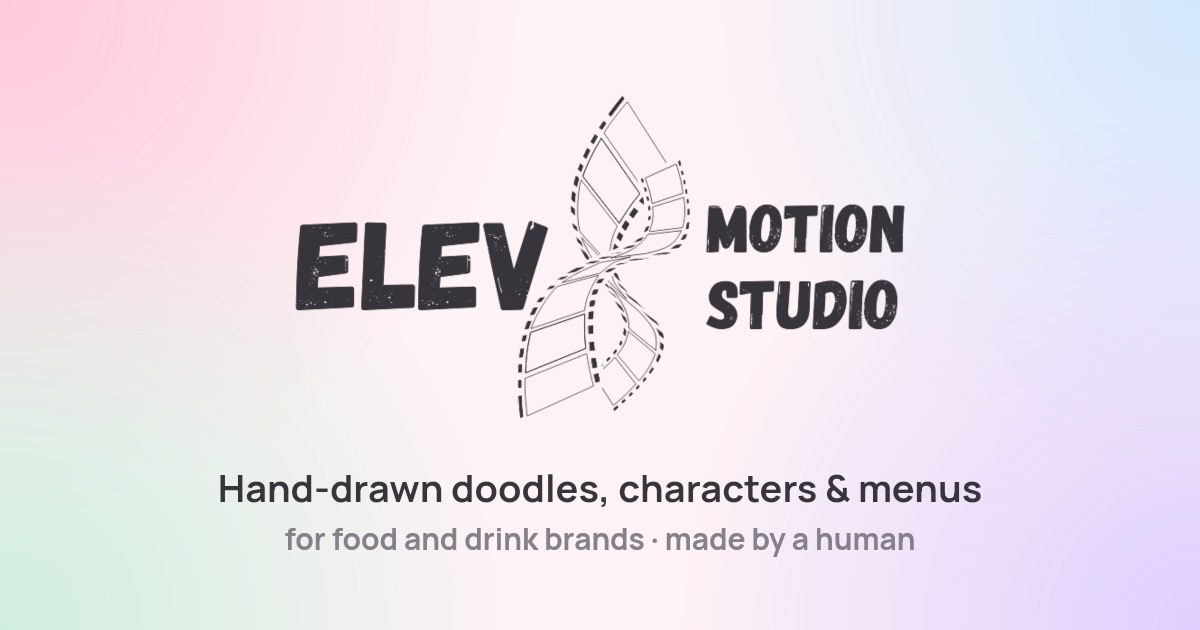
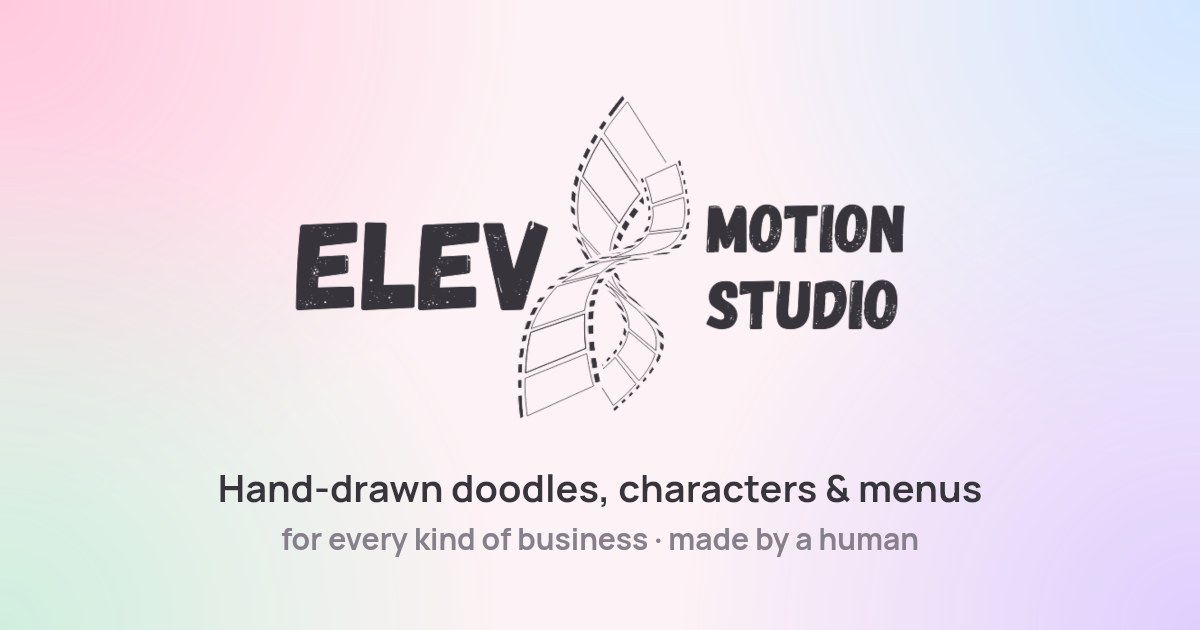
Pick & Mix package (any 5 designs, £800) and wording for every kind of business

Changed region(s): [[0.2158, 0.8444, 0.7708, 0.8746]]

diff --git a/index.html b/index.html
@@ -3,11 +3,11 @@
 <head>
 <meta charset="utf-8">
 <meta name="viewport" content="width=device-width, initial-scale=1, viewport-fit=cover">
-<title>Elev8 Motion Studio · Hand-drawn doodles & characters for food and drink brands</title>
-<meta name="description" content="Elev8 Motion Studio turns your products into hand-drawn doodles, characters and seasonal menus that make people hungry before they've read a word. All delivered digitally. Founded by Precious Muiambo.">
+<title>Elev8 Motion Studio · Hand-drawn doodles & characters for every kind of business</title>
+<meta name="description" content="Elev8 Motion Studio turns your products into hand-drawn doodles, characters, menus and animated logos for every kind of business. All delivered digitally. Founded by Precious Muiambo.">
 <meta property="og:type" content="website">
 <meta property="og:title" content="Elev8 Motion Studio">
-<meta property="og:description" content="Hand-drawn doodles, characters and menus that make people hungry before they've read a word.">
+<meta property="og:description" content="Hand-drawn doodles, characters and menus that make people stop scrolling, for every kind of business.">
 <meta property="og:url" content="https://retiosfernoherself-nic.github.io/elev8motionstudio/">
 <meta property="og:image" content="https://retiosfernoherself-nic.github.io/elev8motionstudio/media/share.jpg">
 <meta name="twitter:card" content="summary_large_image">
@@ -178,7 +178,7 @@ section { padding-block: 60px; border-top: 1px solid var(--line); }
 .item p { color: var(--grey); max-width: 44em; }
 
 /* Packages */
-.packages { display: grid; grid-template-columns: repeat(2, minmax(0, 1fr)); gap: 24px; }
+.packages { display: grid; grid-template-columns: repeat(3, minmax(0, 1fr)); gap: 24px; }
 .pack { position: relative; display: grid; gap: 22px; align-content: start; padding: clamp(22px, 3.5vw, 36px); border-radius: 22px;
   background: var(--surface); border: 1px solid var(--line); box-shadow: var(--shadow); overflow: hidden; }
 .pack::before { content: ""; position: absolute; inset: 0 0 auto 0; height: 6px;
@@ -198,6 +198,13 @@ section { padding-block: 60px; border-top: 1px solid var(--line); }
 .free { display: inline-block; margin-left: 8px; padding: 2px 10px; border-radius: 999px; vertical-align: 2px; font: 700 11.5px var(--f-body); letter-spacing: .08em; text-transform: uppercase; color: #37343b;
   background: linear-gradient(135deg, #ffd3e4, #fff2c2 45%, #cdeedd 75%, #dccdff); box-shadow: 0 4px 10px rgba(185, 163, 239, .3); }
 .quote strong { color: var(--rose); }
+.pack.mixed::before { background: linear-gradient(90deg, #cdeedd, #fff2c2 25%, #ffc6dc 50%, #dccdff 75%, #cfe6ff); }
+.pick-note { font-weight: 600; color: var(--grey); font-size: 15px; }
+.pick-note strong { color: var(--ink); }
+.incl.pick .qty { font-size: 20px; }
+.incl .new { display: inline-block; margin-left: 8px; padding: 2px 9px; border-radius: 999px; vertical-align: 2px; font: 700 11px var(--f-body); letter-spacing: .08em; text-transform: uppercase; color: #37343b;
+  background: linear-gradient(135deg, #ffd3e4, #fff2c2 45%, #cdeedd 75%, #dccdff); }
+@media (max-width: 1180px) and (min-width: 961px) { .packages { grid-template-columns: repeat(2, minmax(0, 1fr)); } .pack.mixed { grid-column: 1 / -1; } }
 
 /* Enquiry form: contact details, then the package (and season), then what they love */
 .enquire { display: grid; grid-template-columns: minmax(0, 1fr) minmax(0, 1.6fr); gap: clamp(24px, 4vw, 56px); align-items: start; }
@@ -239,7 +246,20 @@ fieldset.field { border: 0; margin: 0; padding: 0; }
 .chip span { display: inline-block; padding: 8px 14px; border-radius: 999px; border: 1.5px solid var(--line); background: var(--paper); font-weight: 600; font-size: 14px; cursor: pointer; }
 .chip input:checked + span { background: linear-gradient(135deg, #ffd3e4, #fff2c2 45%, #cdeedd 75%, #dccdff); border-color: transparent; color: #37343b; }
 .chip input:focus-visible + span { outline: 3px solid var(--lilac); outline-offset: 2px; }
-.season-field[hidden] { display: none; }
+.season-field[hidden], .mix-field[hidden] { display: none; }
+.mix { display: grid; gap: 8px; }
+.mix-row { display: grid; grid-template-columns: minmax(0, 1fr) auto; align-items: center; gap: 12px; padding: 10px 12px 10px 16px; border-radius: 14px; border: 1.5px solid var(--line); background: var(--paper); }
+.mix-row.on { border-color: var(--lilac); background: var(--surface); }
+.field.bad .mix-row { border-color: var(--rose); }
+.mix-row b { display: block; font-size: 14.5px; line-height: 1.3; }
+.mix-row small { display: block; margin-top: 3px; font-size: 11.5px; line-height: 1.6; letter-spacing: .01em; color: var(--grey); }
+.step { display: flex; align-items: center; gap: 6px; }
+.step button { width: 36px; height: 36px; border-radius: 999px; border: 1.5px solid var(--line); background: var(--surface); font: 700 18px/1 var(--f-body); color: var(--ink); cursor: pointer; }
+.step button:hover:not(:disabled) { border-color: var(--lilac); }
+.step button:disabled { opacity: .35; cursor: default; }
+.step output { min-width: 22px; text-align: center; font-family: var(--f-display); font-size: 22px; line-height: 1; }
+.mix-total { font-family: var(--f-mono); font-size: 13px; color: var(--grey); }
+.mix-total strong { color: var(--rose); }
 .form-foot { display: flex; flex-wrap: wrap; align-items: center; gap: 12px 18px; margin-top: 22px; }
 .form-foot .mono { max-width: 32em; }
 .sent { display: grid; gap: 14px; }
@@ -303,10 +323,10 @@ footer { padding-block: 24px 40px; border-top: 1px solid var(--line); }
 <div class="wrap">
   <header class="hero">
     <div>
-      <p class="kicker">Hand-drawn doodles &amp; characters for food and drink brands</p>
+      <p class="kicker">Hand-drawn doodles &amp; characters for every kind of business</p>
       <h1>Elev8<br><span class="accent">Motion Studio</span></h1>
-      <p class="lede">Hand-drawn doodles and characters that make people hungry before they've read a word.</p>
-      <p class="sub">We turn your products into playful artwork for restaurants, cafés, bakeries and sweet shops: a full page of your best-sellers as a doodle, characters drawn from your products, and seasonal doodles, menus and characters for every big date. All delivered digitally.</p>
+      <p class="lede">Hand-drawn doodles and characters that make people stop scrolling before they've read a word.</p>
+      <p class="sub">Whatever you sell, we turn it into playful artwork: cafés and bakeries, salons and boutiques, florists, makers and more. A full page of your best-sellers as a doodle, characters drawn from your products, themed menus, animated logos and seasonal designs for every big date. All delivered digitally.</p>
       <div class="cta">
         <a class="btn primary" href="#enquire">Book a consult</a>
         <a class="btn" href="#packages">See our packages</a>
@@ -349,7 +369,7 @@ footer { padding-block: 24px 40px; border-top: 1px solid var(--line); }
   <section id="packages">
     <div class="head">
       <h2>Packages</h2>
-      <p>Two ways to get your brand moving. Every piece is drawn for your business from scratch and delivered digitally, and we agree the details on a quick consult first.</p>
+      <p>Three ways to get your brand moving. Every piece is drawn for your business from scratch and delivered digitally, and we agree the details on a quick consult first.</p>
     </div>
     <div class="packages">
       <article class="pack">
@@ -381,13 +401,31 @@ footer { padding-block: 24px 40px; border-top: 1px solid var(--line); }
         <p class="quote">Start with a quick <strong>consult call</strong>, then a 50% deposit secures your booking.</p>
         <a class="btn primary choose" href="#enquire" data-choose="Seasonal Package">Choose this package</a>
       </article>
+      <article class="pack mixed">
+        <div class="pack-top">
+          <p class="kicker">Any 5 designs, mixed however you like</p>
+          <h3>Pick &amp; Mix Package</h3>
+          <p class="price"><span class="cur">£</span>800</p>
+        </div>
+        <p class="pick-note">Choose <strong>5 designs</strong> from these. Pick one of each, or 5 of the same: five doodles, five stickers, it's up to you.</p>
+        <ul class="incl pick">
+          <li><span class="qty">✦</span>Page doodle of your products</li>
+          <li><span class="qty">✦</span>Product character sticker</li>
+          <li><span class="qty">✦</span>Character-themed menu</li>
+          <li><span class="qty">✦</span>Animated logo</li>
+          <li><span class="qty">✦</span><span>Doodle brand pattern<span class="new">New</span></span></li>
+        </ul>
+        <p class="digital">All designs are digital</p>
+        <p class="quote">Start with a quick <strong>consult call</strong>, then a 50% deposit secures your booking.</p>
+        <a class="btn primary choose" href="#enquire" data-choose="Pick &amp; Mix Package">Choose this package</a>
+      </article>
     </div>
   </section>
 
   <section id="how">
     <div class="head"><h2>How we work</h2></div>
     <div class="rules">
-      <div class="rule"><span class="num">1</span><h3>A quick chat</h3><p>Your menu, your best sellers, the deals you want to push and the look you like.</p></div>
+      <div class="rule"><span class="num">1</span><h3>A quick chat</h3><p>Your products or menu, your best sellers, the deals you want to push and the look you like.</p></div>
       <div class="rule"><span class="num">2</span><h3>Your brand, set up once</h3><p>Your colours, fonts and logo go into templates, so every post looks like it came from the same place.</p></div>
       <div class="rule"><span class="num">3</span><h3>Pay your deposit</h3><p>A 50% deposit secures your booking and we start designing. The other 50% is due after you have received your designs.</p></div>
       <div class="rule"><span class="num">4</span><h3>Receive your designs</h3><p>Your finished designs, delivered digitally and sized for your feed, stories and menu screens.</p></div>
@@ -417,7 +455,7 @@ footer { padding-block: 24px 40px; border-top: 1px solid var(--line); }
             <div class="field"><label for="f-email">Email</label><input id="f-email" name="email" type="email" autocomplete="email" required><span class="err">Please add a valid email.</span></div>
             <div class="field"><label for="f-phone">Phone / WhatsApp</label><input id="f-phone" name="phone" type="tel" autocomplete="tel" required><span class="err">Please add a phone or WhatsApp number.</span></div>
             <div class="field"><label for="f-type">Type of business</label>
-              <select id="f-type" name="type" required><option value="">Choose one</option><option>Restaurant</option><option>Café or coffee shop</option><option>Bakery or cake shop</option><option>Sweets, desserts or ice cream</option><option>Fast food or takeaway</option><option>Juice, smoothie or bubble tea</option><option>Handmade products</option><option>Other</option></select>
+              <select id="f-type" name="type" required><option value="">Choose one</option><option>Restaurant, takeaway or fast food</option><option>Café, bakery or sweet shop</option><option>Hair, beauty or nails</option><option>Fashion, bags or accessories</option><option>Handmade products, candles or crafts</option><option>Shop or boutique</option><option>Flowers, gifts or events</option><option>Health, fitness or wellness</option><option>Services</option><option>Other</option></select>
               <span class="err">Please choose one.</span></div>
             <div class="field"><label for="f-ig">Instagram or website <span class="opt">(optional)</span></label><input id="f-ig" name="instagram" placeholder="@yourbusiness or yourbusiness.co.uk"></div>
 
@@ -425,12 +463,17 @@ footer { padding-block: 24px 40px; border-top: 1px solid var(--line); }
               <div class="choices">
                 <label class="choice"><input type="radio" name="package" value="Business Package"><b>Business</b><span>A page of your products as a doodle, plus 2 characters drawn from your products</span></label>
                 <label class="choice"><input type="radio" name="package" value="Seasonal Package"><b>Seasonal</b><span>A seasonal full&#8209;page doodle, a seasonal themed menu and 6 seasonal characters</span></label>
+                <label class="choice"><input type="radio" name="package" value="Pick &amp; Mix Package"><b>Pick &amp; Mix</b><span>Any 5 designs, mixed however you like</span></label>
                 <label class="choice"><input type="radio" name="package" value="Not sure yet"><b>Not sure yet</b><span>We'll help you choose on the call</span></label>
               </div>
               <span class="err">Please choose a package, or "Not sure yet".</span></fieldset>
             <div class="field full season-field" id="season-field" hidden><label for="f-season">Which season is your campaign for?</label>
               <select id="f-season" name="season"><option value="">Choose a season</option><option>Bonfire Night (5 November)</option><option>Diwali (November)</option><option>Black Friday &amp; Cyber Monday</option><option>Christmas</option><option>New Year's Eve &amp; New Year's Day</option><option>Dry January &amp; Veganuary</option><option>Burns Night (25 January)</option><option>Lunar New Year</option><option>Ramadan &amp; Eid al-Fitr</option><option>Pancake Day</option><option>Valentine's Day</option><option>St David's Day (1 March)</option><option>Mother's Day</option><option>St Patrick's Day (17 March)</option><option>Easter</option><option>May bank holidays</option><option>Father's Day</option><option>Summer &amp; school holidays</option><option>Back to school</option><option>Halloween</option><option>Not sure yet, help me choose</option></select>
               <span class="err">Please choose a season.</span></div>
+            <fieldset class="field full mix-field" id="mix-field" hidden><legend>Pick your 5 designs <span class="opt">(mix them any way you like)</span></legend>
+              <div class="mix" id="mix"></div>
+              <p class="mix-total" id="mix-total" aria-live="polite"></p>
+              <span class="err">Please pick at least one design. You can finish choosing on the call.</span></fieldset>
 
             <fieldset class="field full"><legend>What do you love? <span class="opt">(pick any)</span></legend>
               <div class="chips">
@@ -440,7 +483,7 @@ footer { padding-block: 24px 40px; border-top: 1px solid var(--line); }
                 <label class="chip"><input type="checkbox" name="loves" value="Fun &amp; playful"><span>Fun &amp; playful</span></label>
                 <label class="chip"><input type="checkbox" name="loves" value="Clean &amp; minimal"><span>Clean &amp; minimal</span></label>
                 <label class="chip"><input type="checkbox" name="loves" value="Elegant"><span>Elegant</span></label>
-                <label class="chip"><input type="checkbox" name="loves" value="Mouth-watering close-ups"><span>Mouth-watering close-ups</span></label>
+                <label class="chip"><input type="checkbox" name="loves" value="Product close-ups"><span>Product close-ups</span></label>
                 <label class="chip"><input type="checkbox" name="loves" value="Hand-drawn"><span>Hand-drawn</span></label>
               </div></fieldset>
             <div class="field full"><label for="f-about">Tell us about your business <span class="opt">(optional)</span></label>
@@ -521,12 +564,46 @@ footer { padding-block: 24px 40px; border-top: 1px solid var(--line); }
 // (not activated yet, opened from a computer folder, or offline), the finished enquiry is handed to the visitor's own
 // email or WhatsApp app instead, already written and addressed.
 var CONTACT = { email: "elev8motionstudio@gmail.com", whatsapp: "27740208902" };   // whatsapp: international number, digits only, e.g. 447700900123
+// The designs a Pick & Mix client chooses from (up to MIX_MAX in total, any mix).
+var MIX_MAX = 5, MIX = [
+  ["Page doodle", "A full page of your products as one doodle"],
+  ["Product character sticker", "One of your products drawn as a character sticker"],
+  ["Character-themed menu", "Your menu or price list, decorated with your characters"],
+  ["Animated logo", "Your logo brought to life in a short animation"],
+  ["Doodle brand pattern", "Your products drawn into a repeat pattern for packaging, bags, cups and backgrounds"]
+];
 (function () {
   var form = document.getElementById("enquiry"), sent = document.getElementById("sent");
   if (!form) return;
   var seasonField = document.getElementById("season-field"), season = document.getElementById("f-season"), pkgField = document.getElementById("pkg-field");
   function pkg() { var c = form.querySelector("input[name=package]:checked"); return c ? c.value : ""; }
-  function syncSeason() { var on = pkg() === "Seasonal Package"; seasonField.hidden = !on; season.required = on; if (!on) seasonField.classList.remove("bad"); }
+  function syncSeason() { var on = pkg() === "Seasonal Package"; seasonField.hidden = !on; season.required = on; if (!on) seasonField.classList.remove("bad"); syncMix(); }
+  // Pick & Mix: a − / + counter per design, never more than MIX_MAX in total
+  var mixField = document.getElementById("mix-field"), mixBox = document.getElementById("mix"), counts = MIX.map(function () { return 0; });
+  mixBox.innerHTML = MIX.map(function (m, i) {
+    return '<div class="mix-row"><span><b>' + m[0] + '</b><small>' + m[1] + '</small></span><div class="step">' +
+      '<button type="button" data-i="' + i + '" data-d="-1" aria-label="One less: ' + m[0] + '">−</button><output>0</output>' +
+      '<button type="button" data-i="' + i + '" data-d="1" aria-label="One more: ' + m[0] + '">+</button></div></div>';
+  }).join("");
+  function total() { return counts.reduce(function (a, b) { return a + b; }, 0); }
+  function picks() { return MIX.map(function (m, i) { return counts[i] ? counts[i] + " × " + m[0] : ""; }).filter(Boolean).join(", "); }
+  function drawMix() {
+    var t = total();
+    mixBox.querySelectorAll(".mix-row").forEach(function (row, i) {
+      row.classList.toggle("on", counts[i] > 0); row.querySelector("output").textContent = counts[i];
+      row.querySelector('[data-d="-1"]').disabled = counts[i] === 0; row.querySelector('[data-d="1"]').disabled = t >= MIX_MAX;
+    });
+    document.getElementById("mix-total").innerHTML = "<strong>" + t + " of " + MIX_MAX + "</strong> picked" +
+      (t >= MIX_MAX ? ". That's the full package." : t ? ". Pick " + (MIX_MAX - t) + " more, or finish choosing on the call." : "");
+  }
+  mixBox.addEventListener("click", function (e) {
+    var b = e.target.closest("button[data-i]"); if (!b) return;
+    var i = +b.dataset.i, d = +b.dataset.d;
+    if (d > 0 && total() >= MIX_MAX) return;
+    counts[i] = Math.max(0, counts[i] + d); if (total()) mixField.classList.remove("bad"); drawMix();
+  });
+  function syncMix() { var on = pkg() === "Pick & Mix Package"; mixField.hidden = !on; if (!on) mixField.classList.remove("bad"); }
+  drawMix();
   function valid(el) {
     if (!el.required) return true;
     var v = (el.value || "").trim();
@@ -555,6 +632,7 @@ var CONTACT = { email: "elev8motionstudio@gmail.com", whatsapp: "27740208902" };
       "Phone / WhatsApp: " + get("phone"), BR,
       "Package: " + pkg(),
       pkg() === "Seasonal Package" && "Season: " + get("season"),
+      pkg() === "Pick & Mix Package" && "My designs (" + total() + " of " + MIX_MAX + "): " + picks(),
       loves.length && "What I love: " + loves.join(", "),
       get("about") && "About my business: " + get("about"), BR,
       "Best way to reach me: " + get("reach"),
@@ -569,6 +647,8 @@ var CONTACT = { email: "elev8motionstudio@gmail.com", whatsapp: "27740208902" };
     });
     var hasPkg = !!pkg(); pkgField.classList.toggle("bad", !hasPkg);
     if (!hasPkg && !first) first = pkgField.querySelector("input");
+    var mixBad = pkg() === "Pick & Mix Package" && !total(); mixField.classList.toggle("bad", mixBad);
+    if (mixBad && !first) first = mixBox.querySelector('[data-d="1"]');
     if (first) { first.focus(); return; }
     var d = new FormData(form), text = message(d), subject = "Consult request: " + String(d.get("business")).trim() + " (" + pkg() + ")";
     var btn = form.querySelector("button[type=submit]"), label = btn.textContent;
@@ -577,7 +657,7 @@ var CONTACT = { email: "elev8motionstudio@gmail.com", whatsapp: "27740208902" };
       btn.disabled = true; btn.textContent = "Sending…";
       var get = function (k) { return String(d.get(k) || "").trim(); };
       var fields = { "Name": get("name"), "Business": get("business"), "Type of business": get("type"), "Instagram or website": get("instagram"),
-        "Email": get("email"), "Phone / WhatsApp": get("phone"), "Package": pkg(), "Season": pkg() === "Seasonal Package" ? get("season") : "",
+        "Email": get("email"), "Phone / WhatsApp": get("phone"), "Package": pkg(), "Season": pkg() === "Seasonal Package" ? get("season") : "", "Designs": pkg() === "Pick & Mix Package" ? total() + " of " + MIX_MAX + ": " + picks() : "",
         "What they love": d.getAll("loves").join(", "), "About the business": get("about"), "Best way to reach them": get("reach"), "Best time for a consult": get("when") };
       Object.keys(fields).forEach(function (k) { if (!fields[k]) delete fields[k]; });
       fields._subject = subject; fields._replyto = get("email"); fields._template = "table"; fields._honey = get("_honey");
